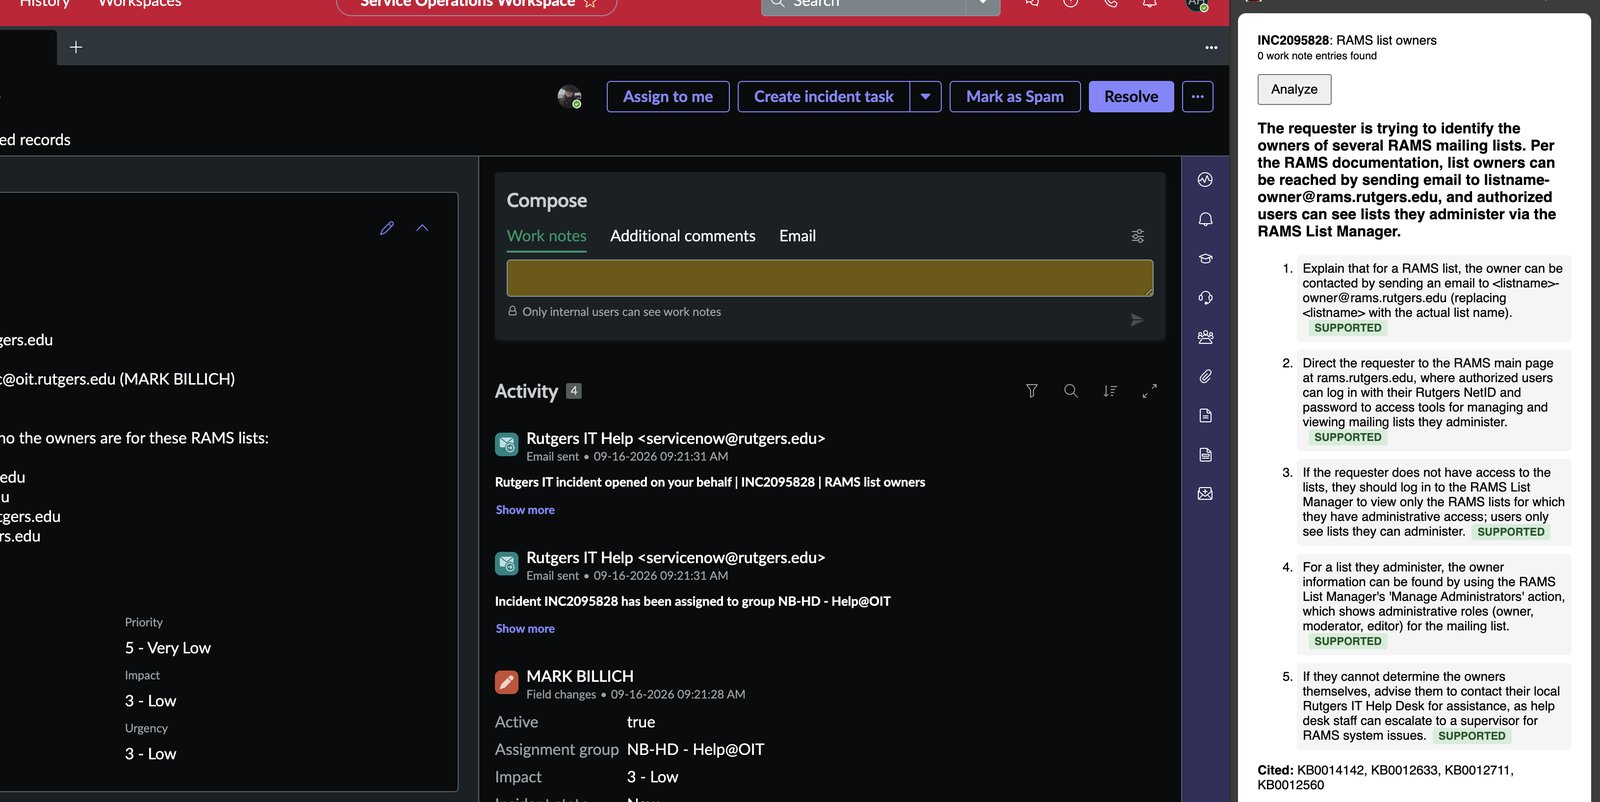
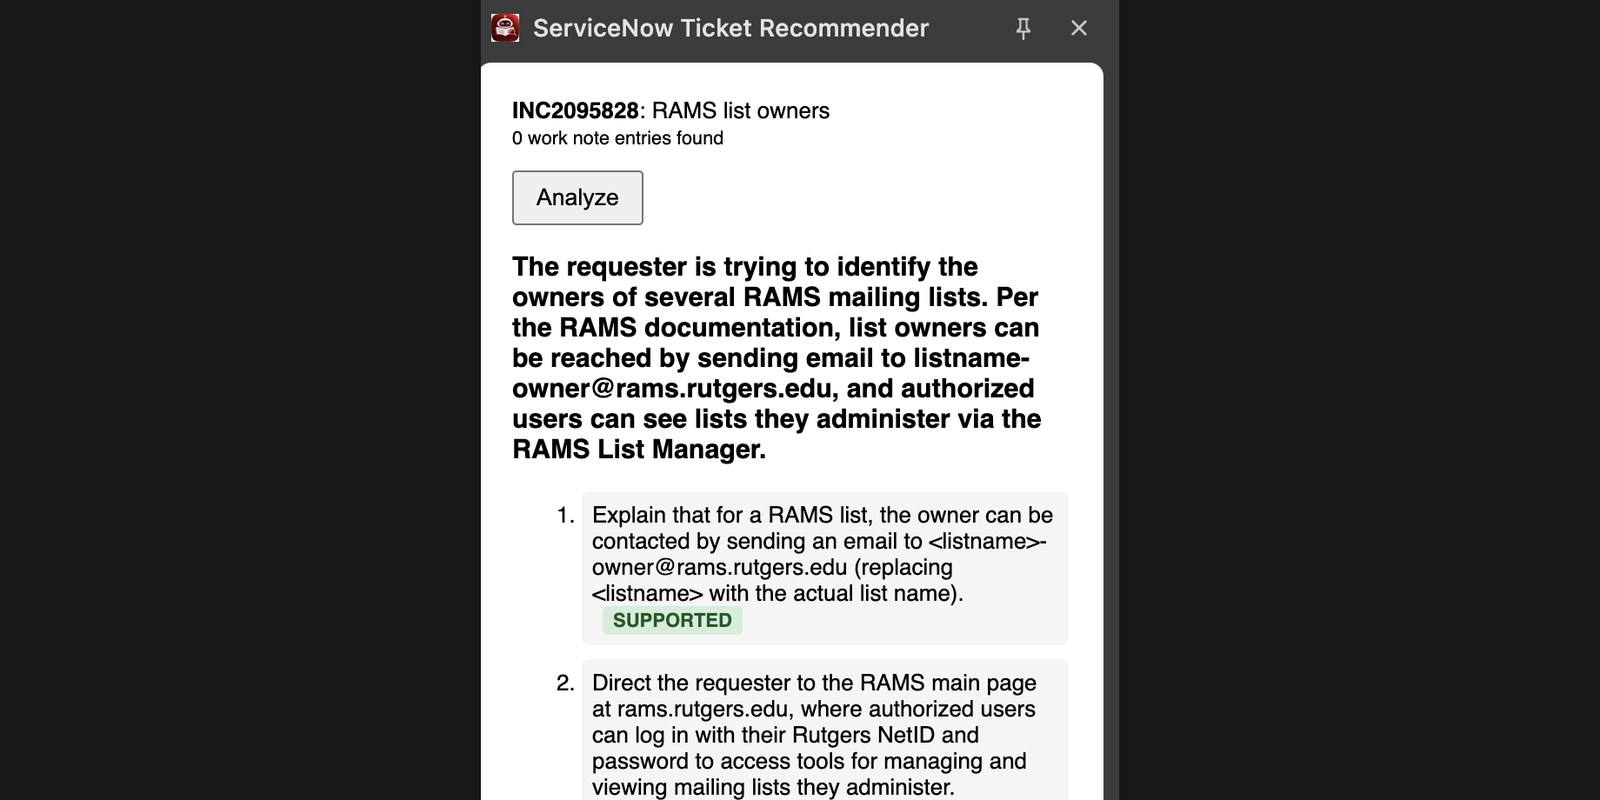
fix: crop ServiceNow card to panel only, add real section 1+2 screenshots

diff --git a/lib/projects.ts b/lib/projects.ts
@@ -28,12 +28,12 @@ export const projects: Project[] = [
     links: { github: "https://github.com/Afn377/ServiceNow-Ticket-RAG" },
     sections: [
       {
-        screenshot: "/projects/servicenow-rag-assistant/1.svg",
+        screenshot: "/projects/servicenow-rag-assistant/1.jpg",
         heading: "Help inside the support workflow",
         text: "Support consultants need to connect a ticket's symptoms with the right troubleshooting documentation. I built a Chrome side panel that reads the current incident and presents suggested next steps alongside the ticket.",
       },
       {
-        screenshot: "/projects/servicenow-rag-assistant/2.svg",
+        screenshot: "/projects/servicenow-rag-assistant/2.jpg",
         heading: "From ticket to cited recommendation",
         text: "The pipeline searches 1,394 cleaned knowledge-base articles using BGE embeddings and category-aware ranking. DeepSeek turns the retrieved material into structured steps with source citations and SUPPORTED, INFERRED, or UNCERTAIN labels. At this scale, an in-memory NumPy index is enough — brute-force cosine similarity across all 1,394 articles finishes in single-digit milliseconds, so a dedicated vector database would only add operational complexity without a real latency win.",
       },
